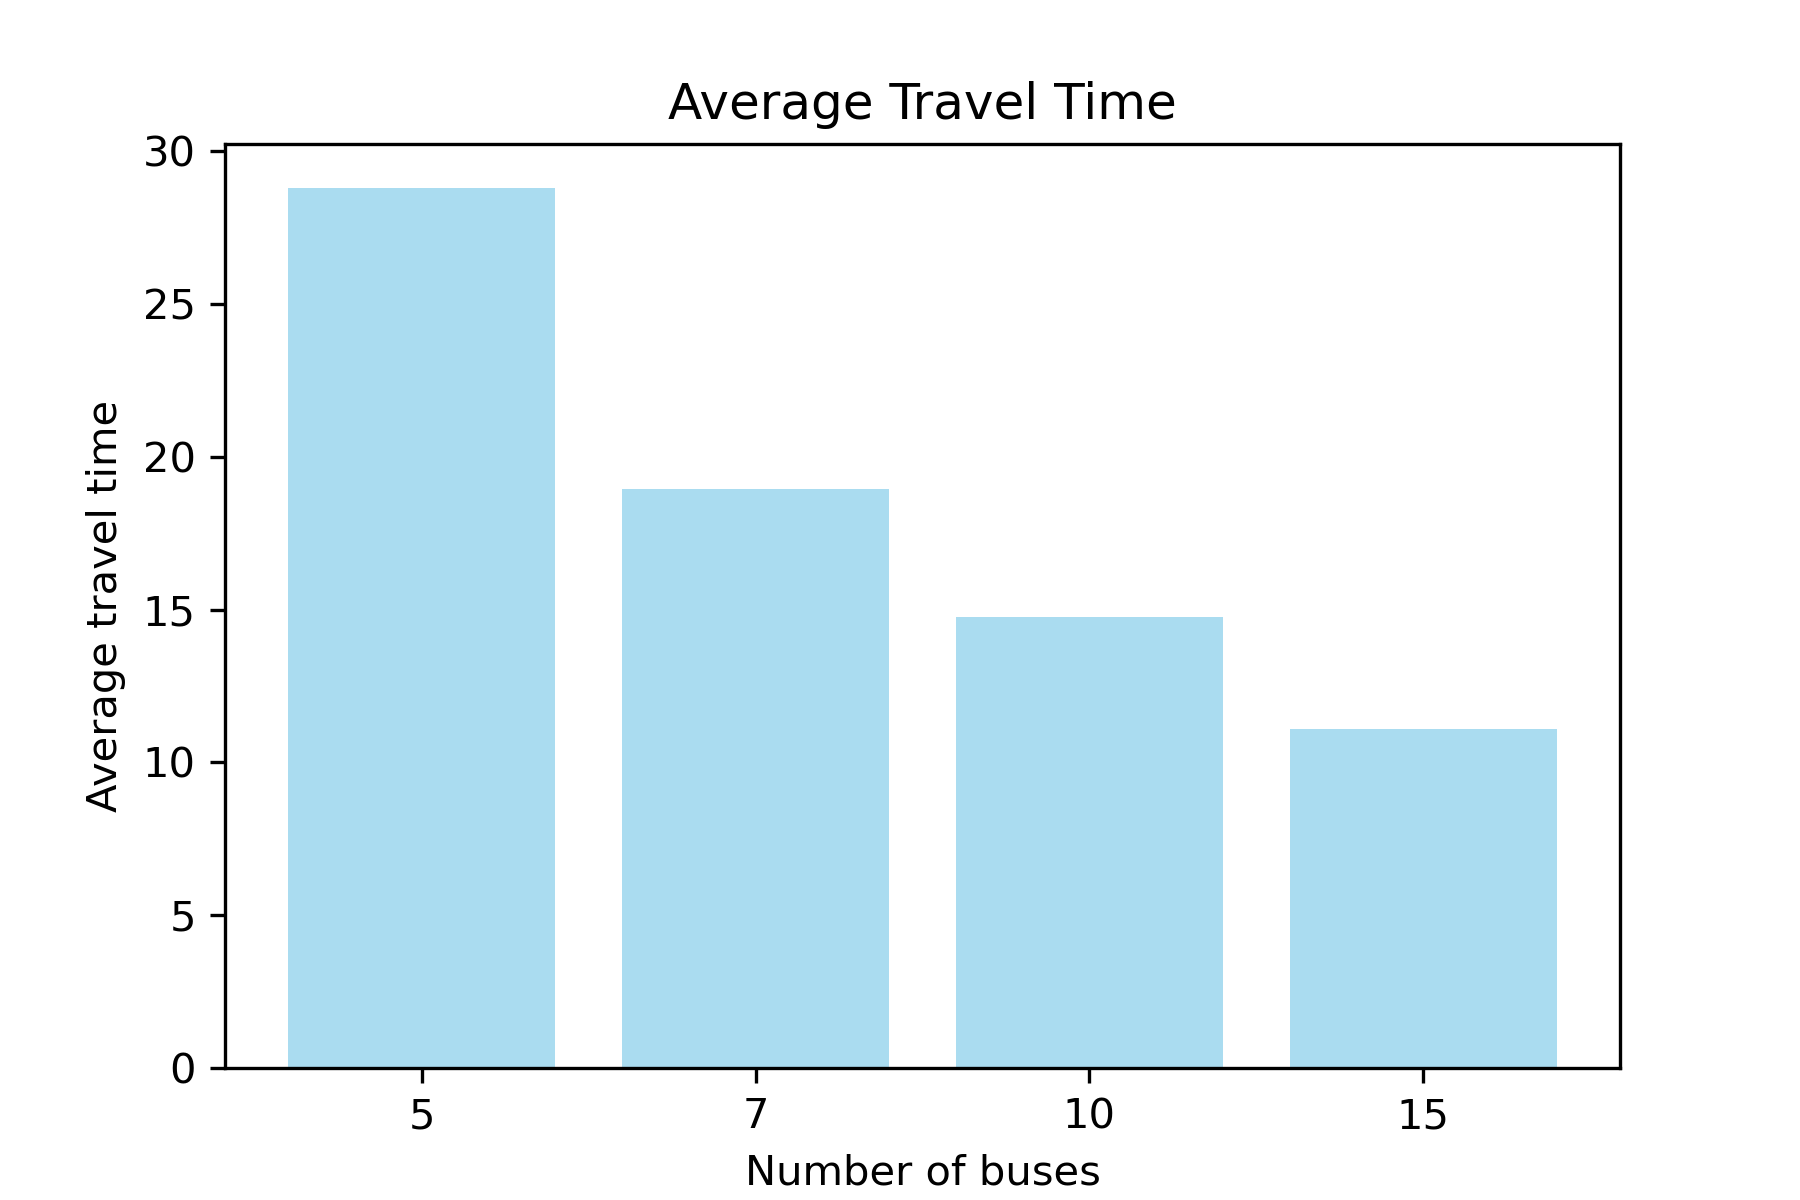
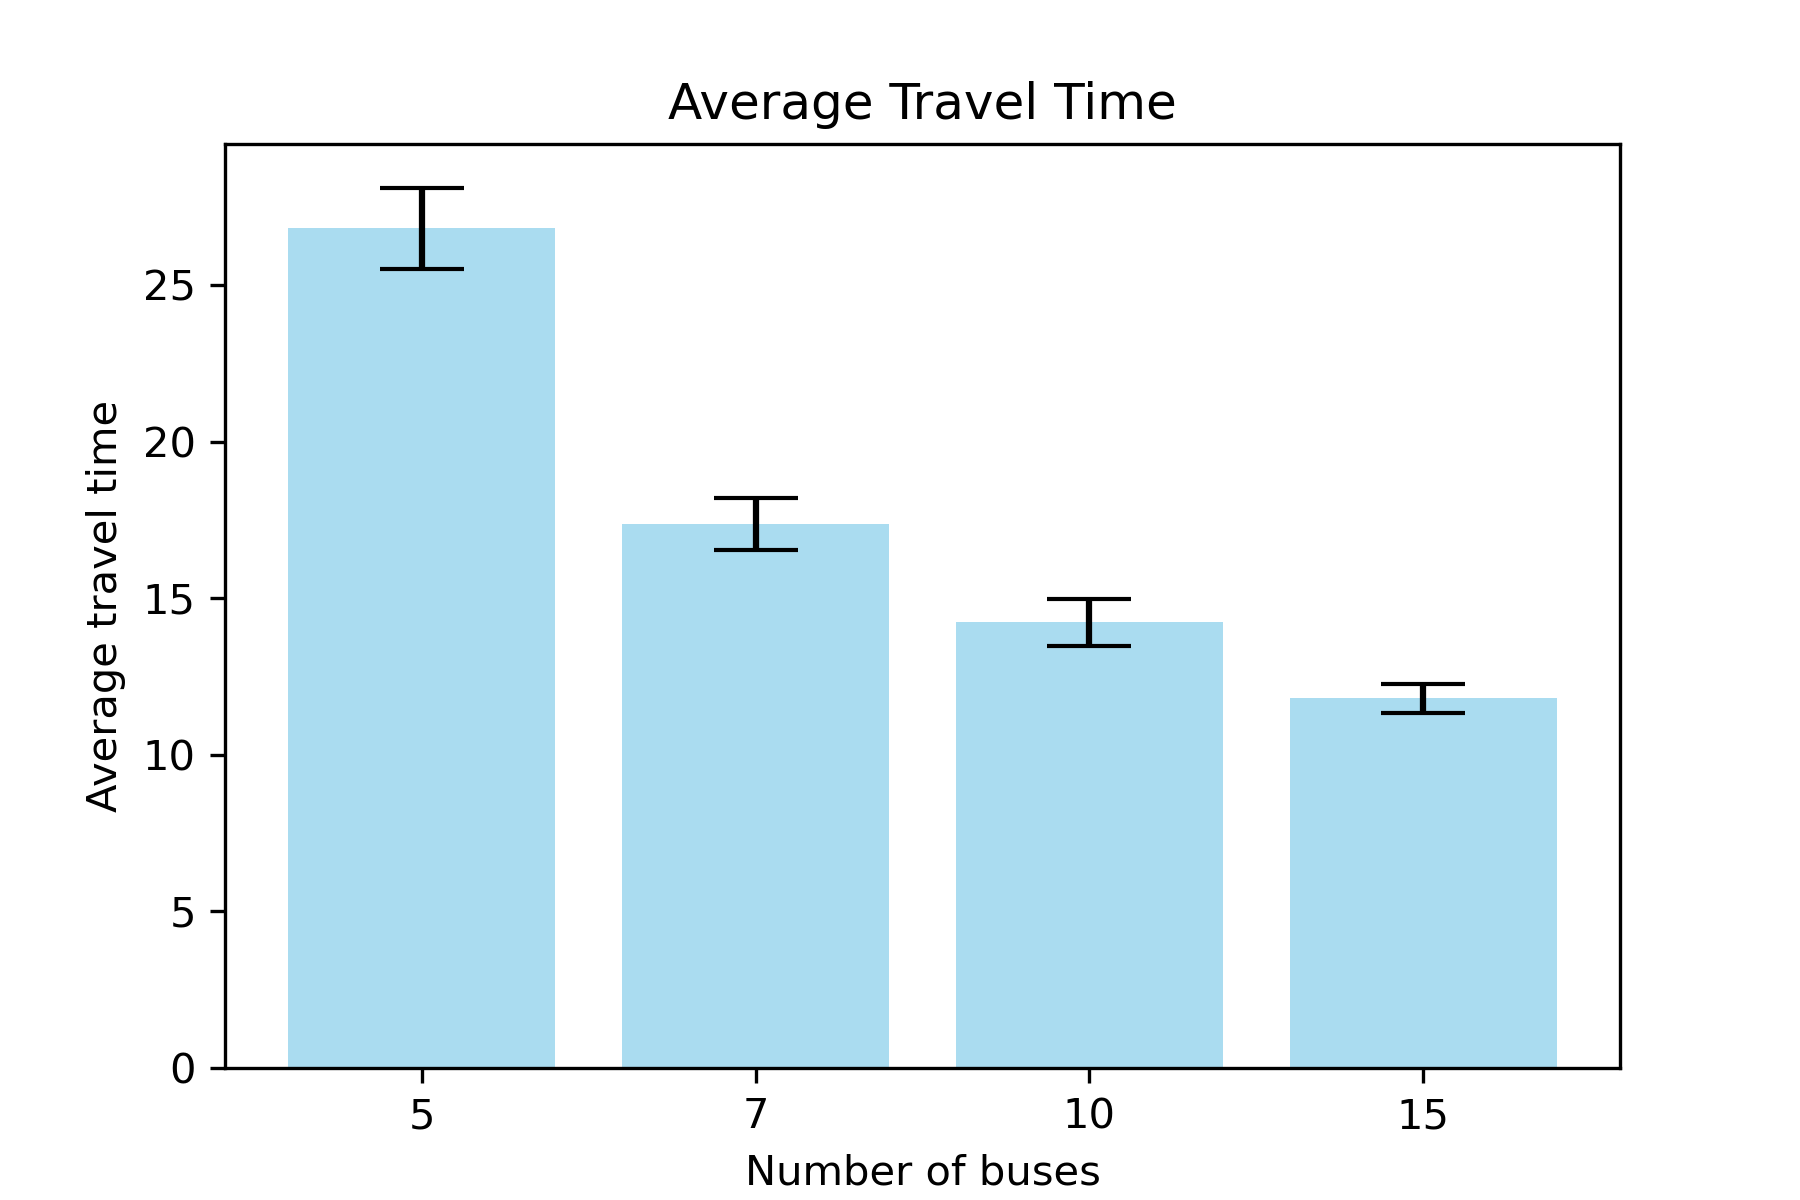
added standard error for travel time

diff --git a/simulation.py b/simulation.py
@@ -257,10 +257,10 @@ def plotUtilization(n_b, averageUtilizationList, SE_list):
     plt.show()
 
 
-def plotTravelTime(n_b, averageTravelTimeList):
+def plotTravelTime(n_b, averageTravelTimeList, SE_list):
     plt.figure(figsize=(6, 4))
     x_pos = np.arange(len(averageTravelTimeList))
-    plt.bar(x_pos, averageTravelTimeList, align='center', alpha=0.7, capsize=10, color='skyblue')
+    plt.bar(x_pos, averageTravelTimeList, yerr=SE_list, align='center', alpha=0.7, capsize=10, color='skyblue')
     plt.xticks(x_pos, n_b)
     plt.ylabel('Average travel time')
     plt.xlabel('Number of buses')
@@ -276,7 +276,8 @@ if __name__ == "__main__":
     n_b = [5, 7, 10, 15]
     
     # Run simulation multiple times
-    SE_list = []
+    SE_utilization_list = []
+    SE_traveltime_list = []
     totalAverageUtilizationList = []
     totalAverageTravelTimeList = []
     for value in n_b:
@@ -293,21 +294,29 @@ if __name__ == "__main__":
         totalAverageUtilizationList.append(np.mean(np.array(averageUtilizationList)))
         totalAverageTravelTimeList.append(np.mean(np.array(averageTravelTimeList)))
 
-        # Calculate standard error
+        # Calculate standard error for utilization
         SDsum = 0
         for observation in averageUtilizationList:
             SDsum += (observation-np.mean(np.array(averageUtilizationList)))**2
         SD = np.sqrt(SDsum/(len(averageUtilizationList)-1))
-        SE_list.append(SD/np.sqrt(len(averageUtilizationList)))
+        SE_utilization_list.append(SD/np.sqrt(len(averageUtilizationList)))
+                
+        # Calculate standard error for utilization
+        SDsum = 0
+        for observation in averageTravelTimeList:
+            SDsum += (observation-np.mean(np.array(averageTravelTimeList)))**2
+        SD = np.sqrt(SDsum/(len(averageTravelTimeList)-1))
+        SE_traveltime_list.append(SD/np.sqrt(len(averageTravelTimeList)))
                 
     # Print average utilization
-    print()
+    print("")
     for i in range(len(n_b)):
         print(f"{n_b[i]:<2} buses results in an average utilization of {100*totalAverageUtilizationList[i]:.2f}%")
-        print(f"         with standard error {SE_list[i]:.6f}")
-        print(f"         and average travel time {totalAverageTravelTimeList[i]:.2f} minutes.")
-        print()
+        print(f"         with standard error {SE_utilization_list[i]:.6f}")
+        print(f"         and average travel time {totalAverageTravelTimeList[i]:.2f} minutes")
+        print(f"         with standard error {SE_traveltime_list[i]:.6f}.")
+        print("")
 
     # Plot results
-    plotUtilization(n_b, totalAverageUtilizationList, SE_list)
-    plotTravelTime(n_b, totalAverageTravelTimeList)
+    plotUtilization(n_b, totalAverageUtilizationList, SE_utilization_list)
+    plotTravelTime(n_b, totalAverageTravelTimeList, SE_traveltime_list)
